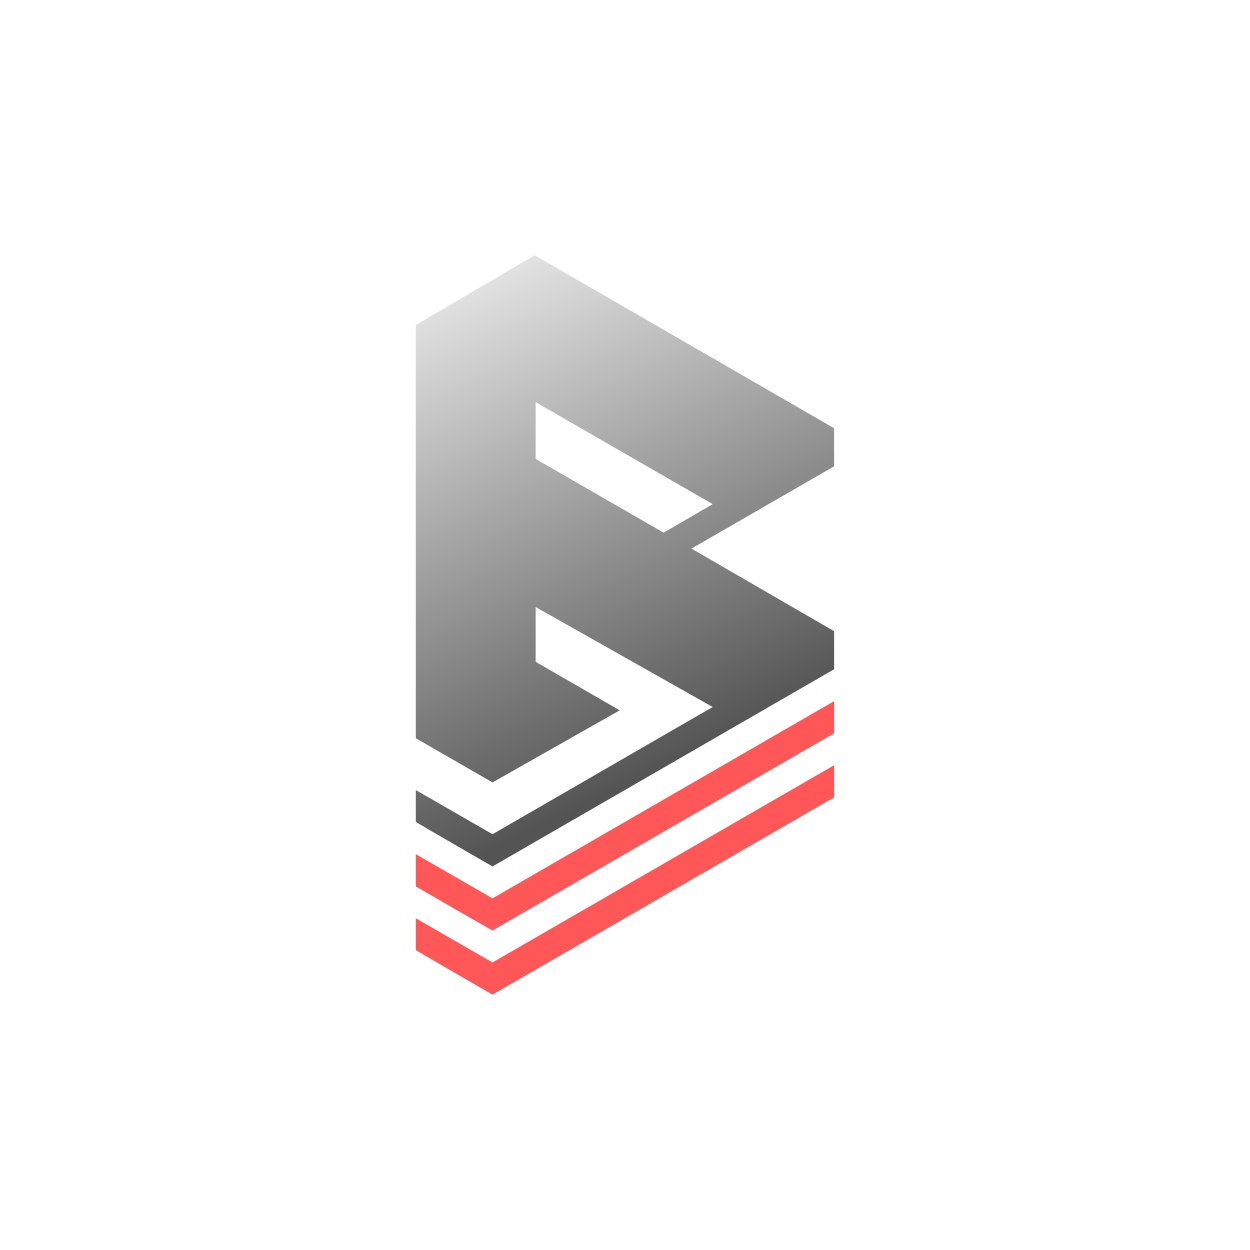
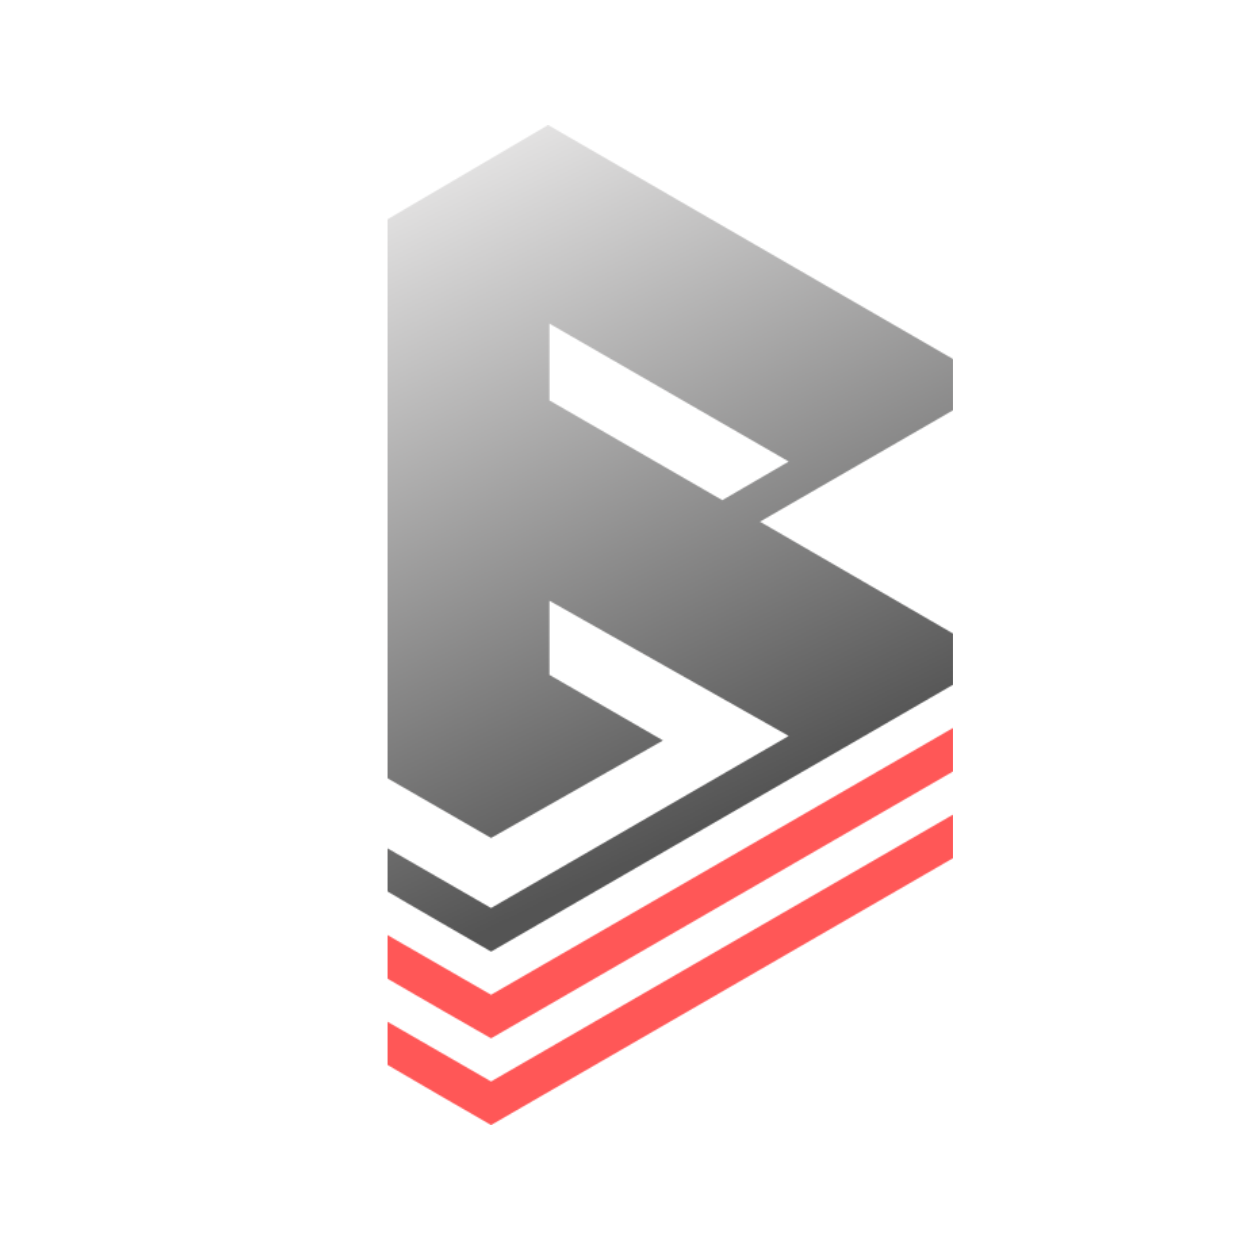
v3.5.1

Changed region(s): [[0.312, 0.0936, 0.78, 0.9048]]

diff --git a/docs/index.html b/docs/index.html
@@ -4,7 +4,7 @@
     <meta charset="UTF-8" />
     <meta name="viewport" content="width=device-width, initial-scale=1.0" />
     <meta name="theme-color" content="#0f172a" />
-    <title>myDalo</title>
+    <title>Dalo</title>
     <script>
       if (
         !["localhost", "127.0.0.1"].includes(window.location.hostname) &&
@@ -21,6 +21,7 @@
     <link rel="stylesheet" crossorigin href="./assets/index-BOZPC7Za.css">
   </head>
   <body>
-    <div id="root"></div>
+    <div id="root"></div>
+
   </body>
 </html>

diff --git a/index.html b/index.html
@@ -4,7 +4,7 @@
     <meta charset="UTF-8" />
     <meta name="viewport" content="width=device-width, initial-scale=1.0" />
     <meta name="theme-color" content="#0f172a" />
-    <title>myDalo</title>
+    <title>Dalo</title>
     <script>
       if (
         !["localhost", "127.0.0.1"].includes(window.location.hostname) &&

diff --git a/src/main.jsx b/src/main.jsx
@@ -504,7 +504,7 @@ function App() {
         <div className="checkin-panel">
           <div className="brand-mark hero-mark" aria-hidden="true">M</div>
           <div>
-            <p className="eyebrow">myDalo</p>
+            <p className="eyebrow">Dalo</p>
             <h1 id="checkin-title">My Presence / My Attendance</h1>
           </div>
           <form onSubmit={checkName} className="search-form">